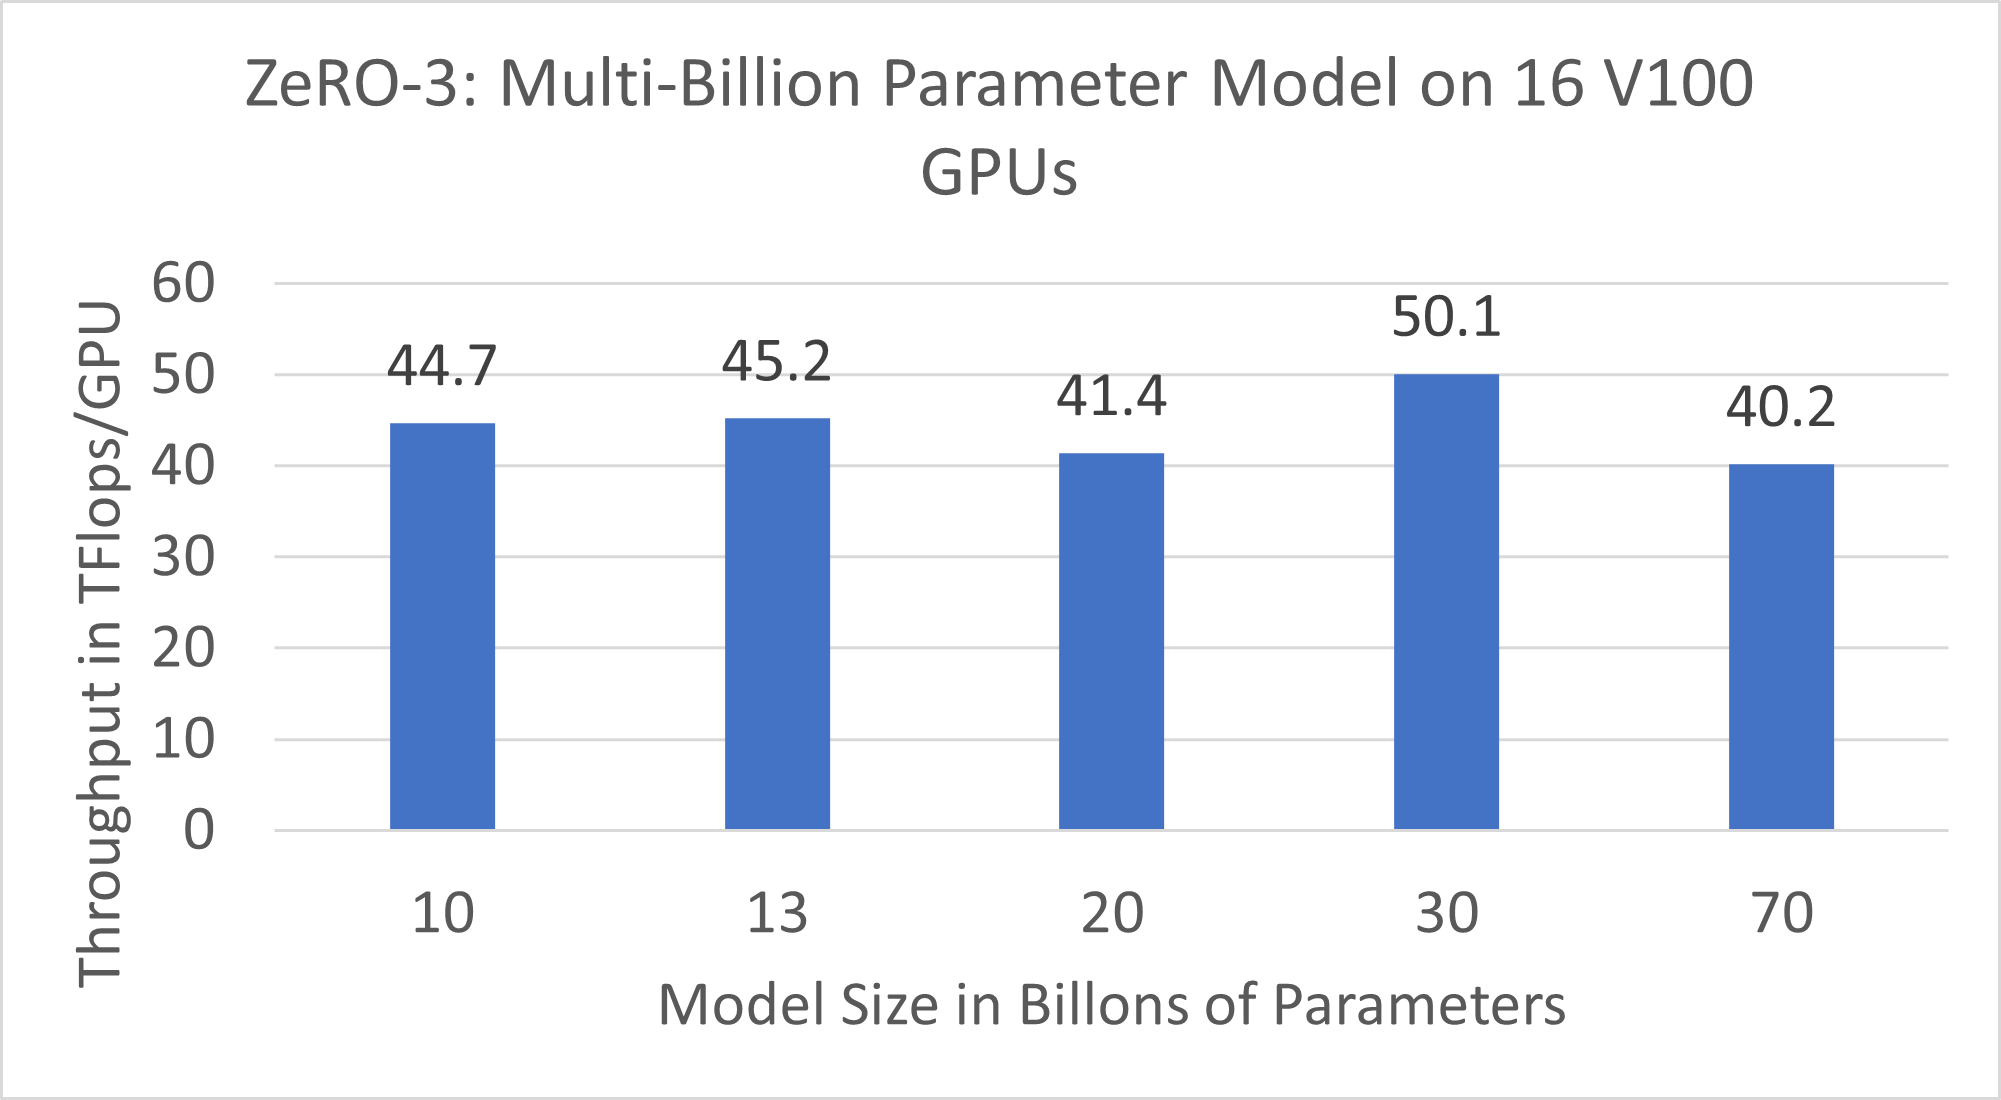
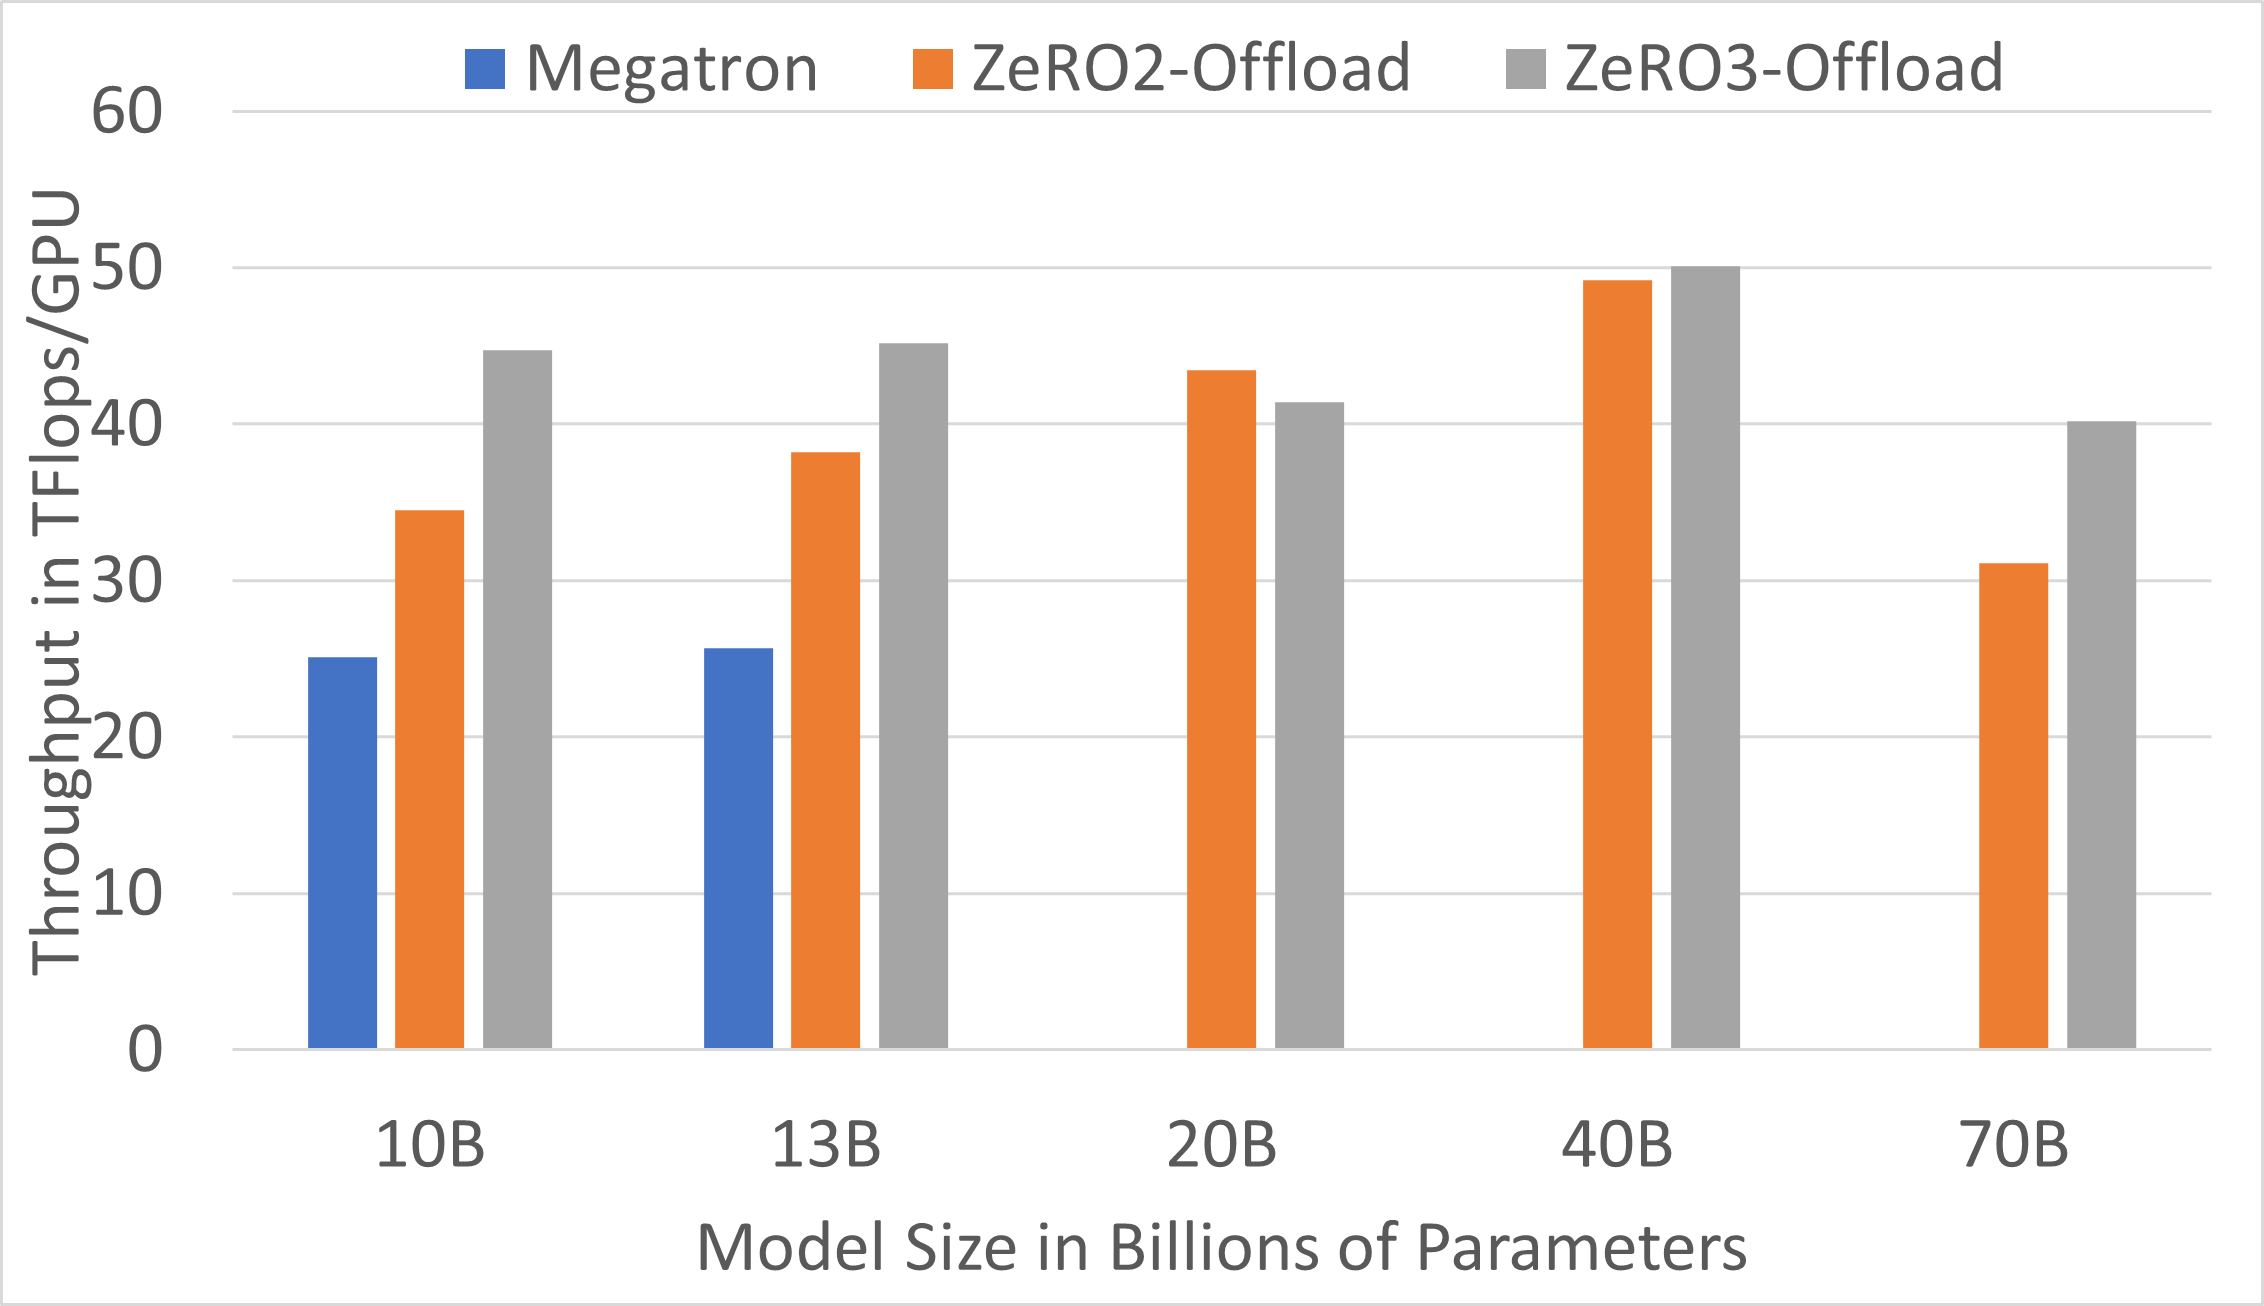
Single GPU results

diff --git a/docs/_posts/2021-03-08-zero3-offload.md b/docs/_posts/2021-03-08-zero3-offload.md
@@ -69,20 +69,27 @@ Figure 2. ZeRO-3 Offload: Multi-billion and trillion parameter model throughput 
 
 ZeRO-3 Offload obtains high efficiency despite the 50% communication overhead of ZeRO Stage 3 compared to standard data parallel training for a fixed batch size. This is made possible through a communication overlap centric design and implementation, which allows ZeRO-3 Offload to hide nearly all of the communication volume with computation, while taking advantage of a larger batch size for improved efficiency resulting from better GPU memory efficiency.
 
-<i>High-performance per-GPU throughput on a single node</i>:
-
-<a href="/assets/images/zero3-offload-16-v100.png">
-<img src="/assets/images/zero3-offload-16-v100.png">
-</a>
-Figure 3. ZeRO-3 Offload: Multi-billion parameter model throughput on 16 V100 GPUs
-
 <i>Super-Linear scalability across GPUs</i>: Additionally, ZeRO-3 Offload also preserves the super-linear scalability characteristics that we have demonstrated with all our previous ZeRO technologies (ZeRO Stage 1, ZeRO Stage 2 and ZeRO Offload). ZeRO-3 Offload can exploit the aggregate PCI-E bandwidth between GPU and CPU across all the GPUs in multi-GPU training configuration, and at the same time, it can also exploit the aggregate CPU compute across all the nodes. As a result, the CPU-GPU-CPU communication time as well as the optimizer update time decreases linearly with number of GPUs and nodes, respectively, allowing ZeRO-3 Offload to exhibit super-linear scaling (see Figure 3).
 
 <a href="/assets/images/zero3-offload-200B-scalability.png">
 <img src="/assets/images/zero3-offload-200B-scalability.png">
 </a>
-Figure 4. ZeRO-3 Offload Superlinear Scalability for a 200B parameter model.
+Figure 3. ZeRO-3 Offload Superlinear Scalability for a 200B parameter model.
 
+<i>Efficient multi-billion parameter training on a single node</i>:
+
+<a href="/assets/images/zero3-offload-16-v100.png">
+<img src="/assets/images/zero3-offload-16-v100.png">
+</a>
+Figure 4. Multi-billion parameter model training on 16 V100 GPUs
+
+
+<i>Efficient multi-billion parameter training on a single GPU</i>:
+
+<a href="/assets/images/zero3-offload-1-v100.png">
+<img src="/assets/images/zero3-offload-1-v100.png">
+</a>
+Figure 5. Multi-billion parameter model training on one V100 GPU
 
 <h2>How to use ZeRO-3 Offload</h2>
 As with many other existing DeepSpeed features, once the user model has been converted to use DeepSpeed, enabling ZeRO-3 Offload is as easy as turning on a couple of flags in DeepSpeed Config file. Supporting advanced features like weight sharing, or enabling extremely large models that requires to be partitioned across GPUs/nodes to fit in GPU/CPU memory, can be done with just a couple of additional lines of code change using the ZeRO-3 Offload API. 
